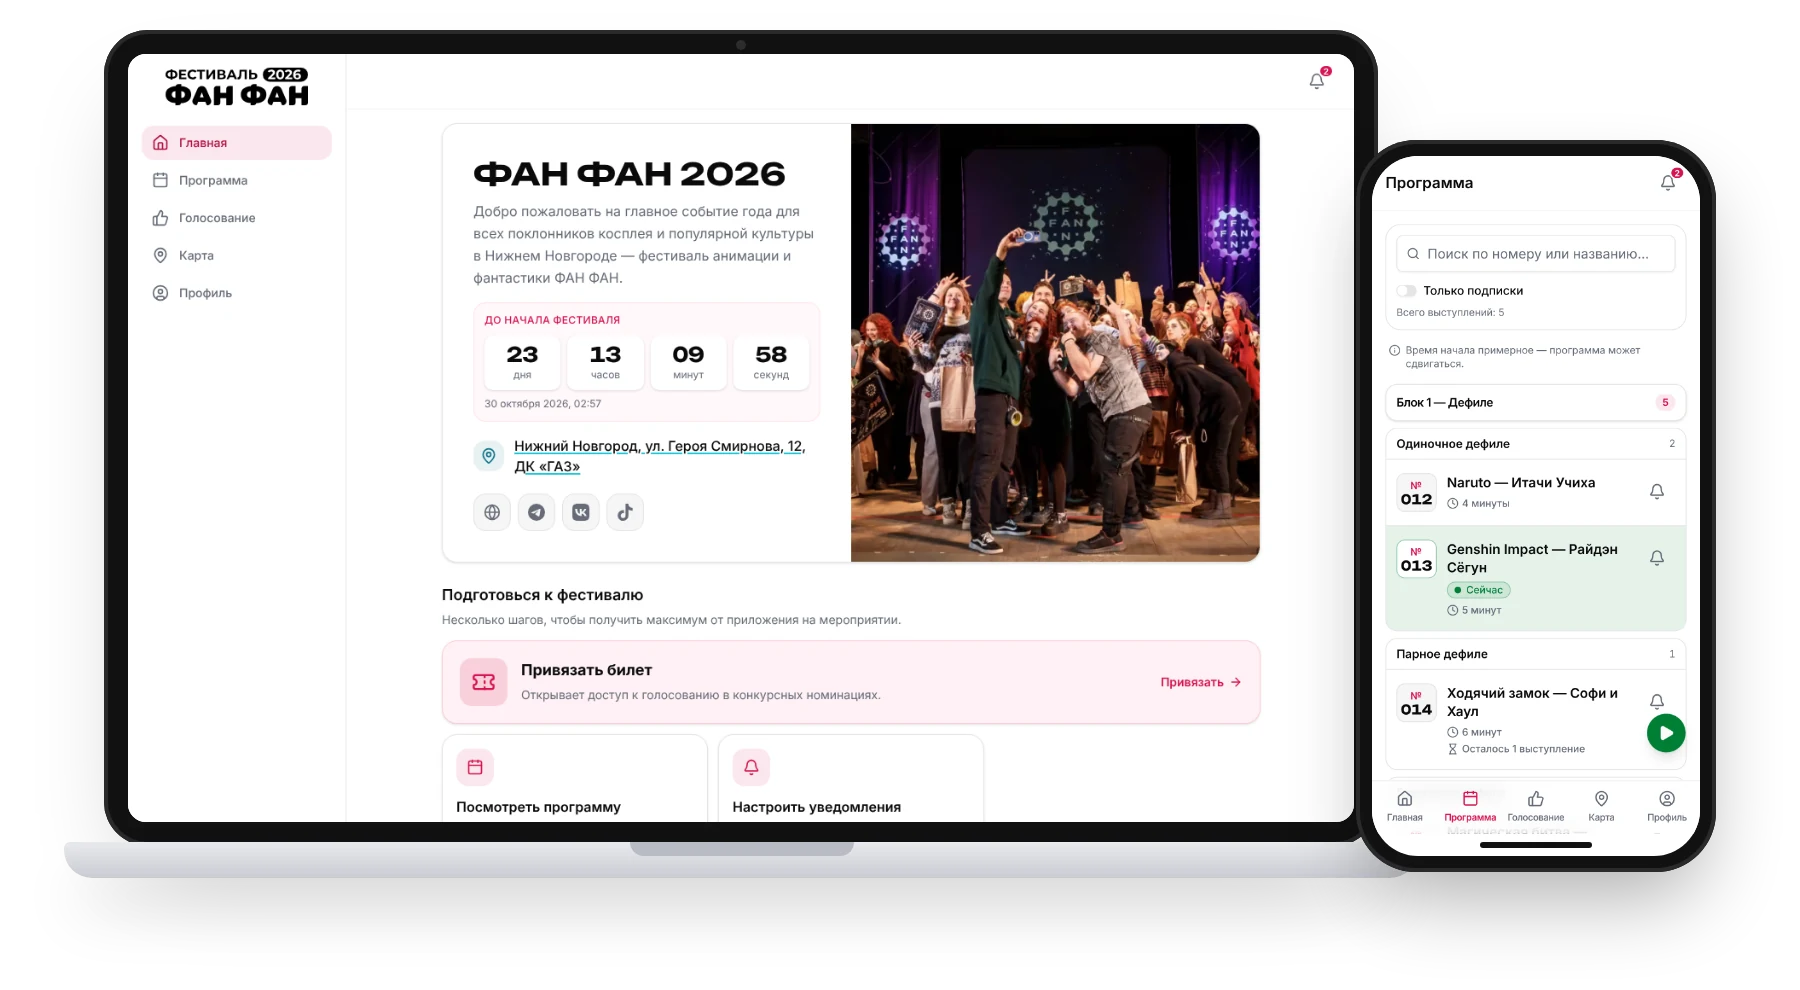
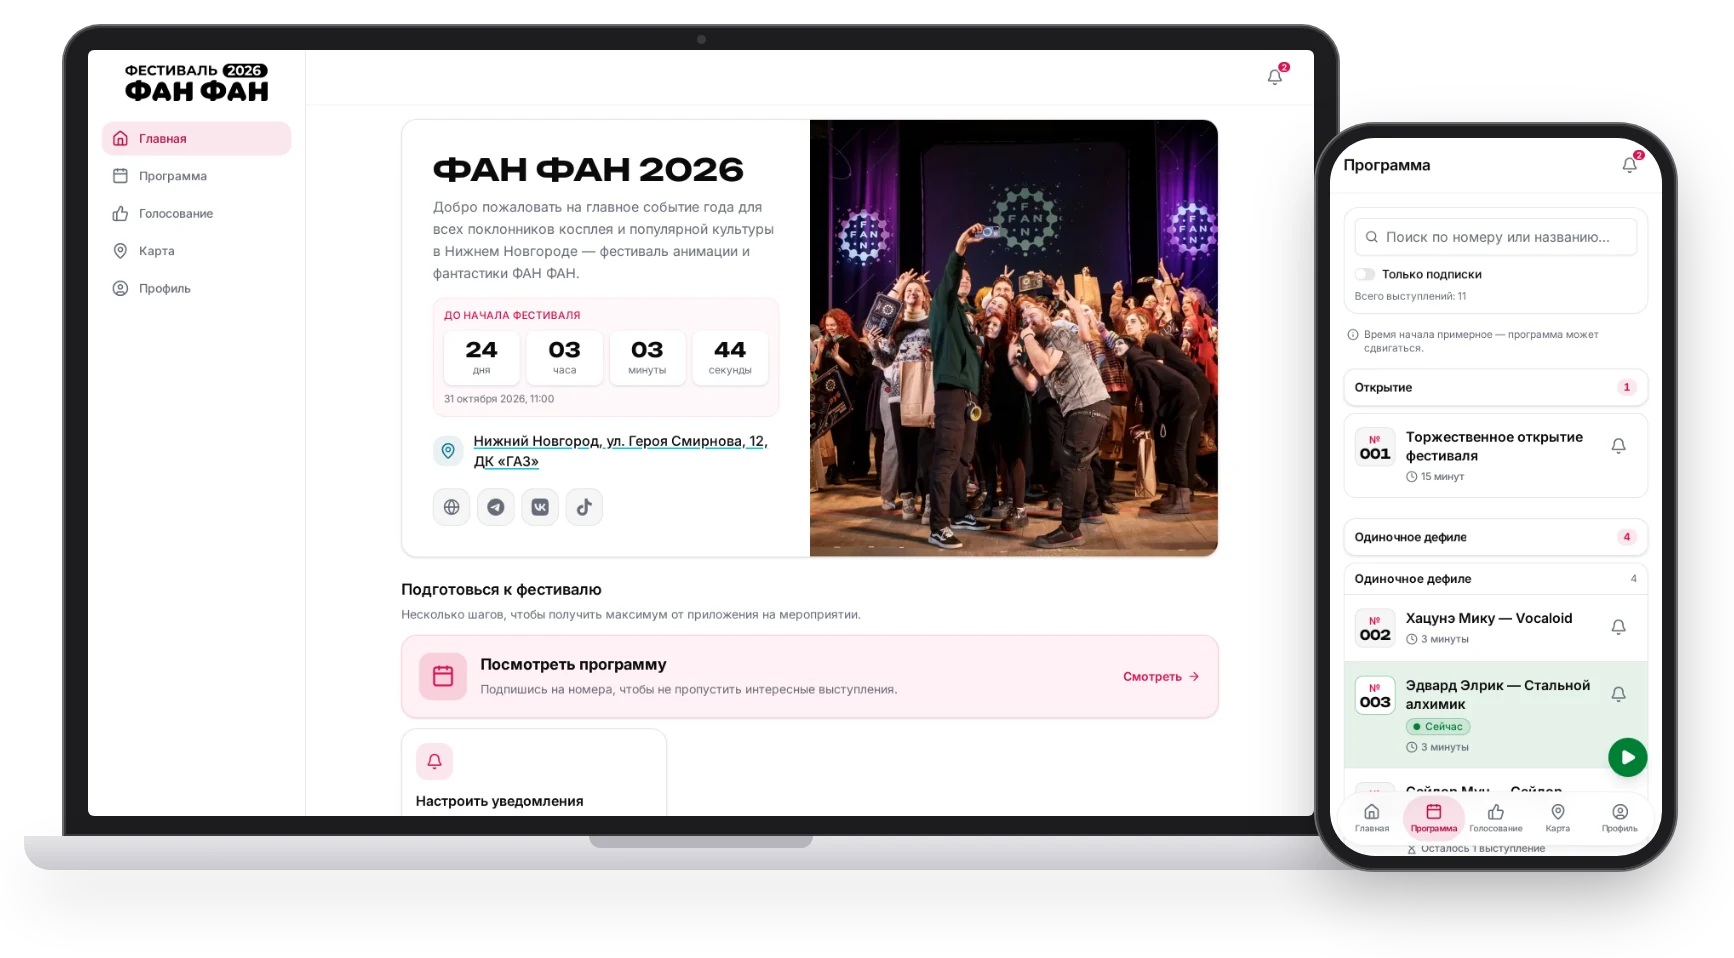
docs: add a screenshot gallery to the readme and refresh the hero image
Adds a compact four-screen gallery (schedule, voting, notifications, map)
under Features, and re-renders the laptop + phone hero from the current
app. Screens were captured from the real app on seeded demo data, so the
hero and the gallery show the same programme.

The gallery shows the festival map, so docs/assets/readme-gallery/ joins
the branding/artwork files the MIT grant excludes.

A full per-section showcase page is deliberately left for later.

Claude-Session: https://claude.ai/code/session_01LF6qDDaTAMe6jZ47PBMvwc

Changed region(s): [[0.0, 0.0, 0.9654, 0.9384], [0.654, 0.666, 0.6851, 0.7265]]

diff --git a/README.md b/README.md
@@ -30,6 +30,23 @@ This is a monorepo: a FastAPI backend, a SvelteKit frontend, and a shared OpenAP
 - **Live updates**: Server-Sent Events (SSE) push real-time changes to the client.
 - **Installable PWA**: installs to the home screen; the schedule, notifications and profile stay readable offline from their last synced copy.
 
+### Screenshots
+
+<table>
+  <tr>
+    <th>Schedule</th>
+    <th>Voting</th>
+    <th>Notifications</th>
+    <th>Map</th>
+  </tr>
+  <tr>
+    <td><img src="docs/assets/readme-gallery/schedule.webp" width="195" alt="Schedule: performances grouped by block, the one on stage now highlighted, a bell to subscribe to each"></td>
+    <td><img src="docs/assets/readme-gallery/voting.webp" width="195" alt="Voting: a nomination's participants with vote counts and the user's own choice marked"></td>
+    <td><img src="docs/assets/readme-gallery/notifications.webp" width="195" alt="Notifications: a subscription reminder, an on-stage announcement and organizer broadcasts"></td>
+    <td><img src="docs/assets/readme-gallery/map.webp" width="195" alt="Map: the venue's first-floor plan with numbered points of interest"></td>
+  </tr>
+</table>
+
 ## Stack
 
 | Layer | Tech |
@@ -308,6 +325,7 @@ who consented to a festival photo, not to redistribution under MIT. Excluded:
 - `frontend/src/lib/assets/map/`
 - `frontend/src/routes/(app)/components/home/main.webp`
 - `docs/assets/readme-header.webp`
+- `docs/assets/readme-gallery/`
 
 Fork the code freely; swap in your own branding.
 
